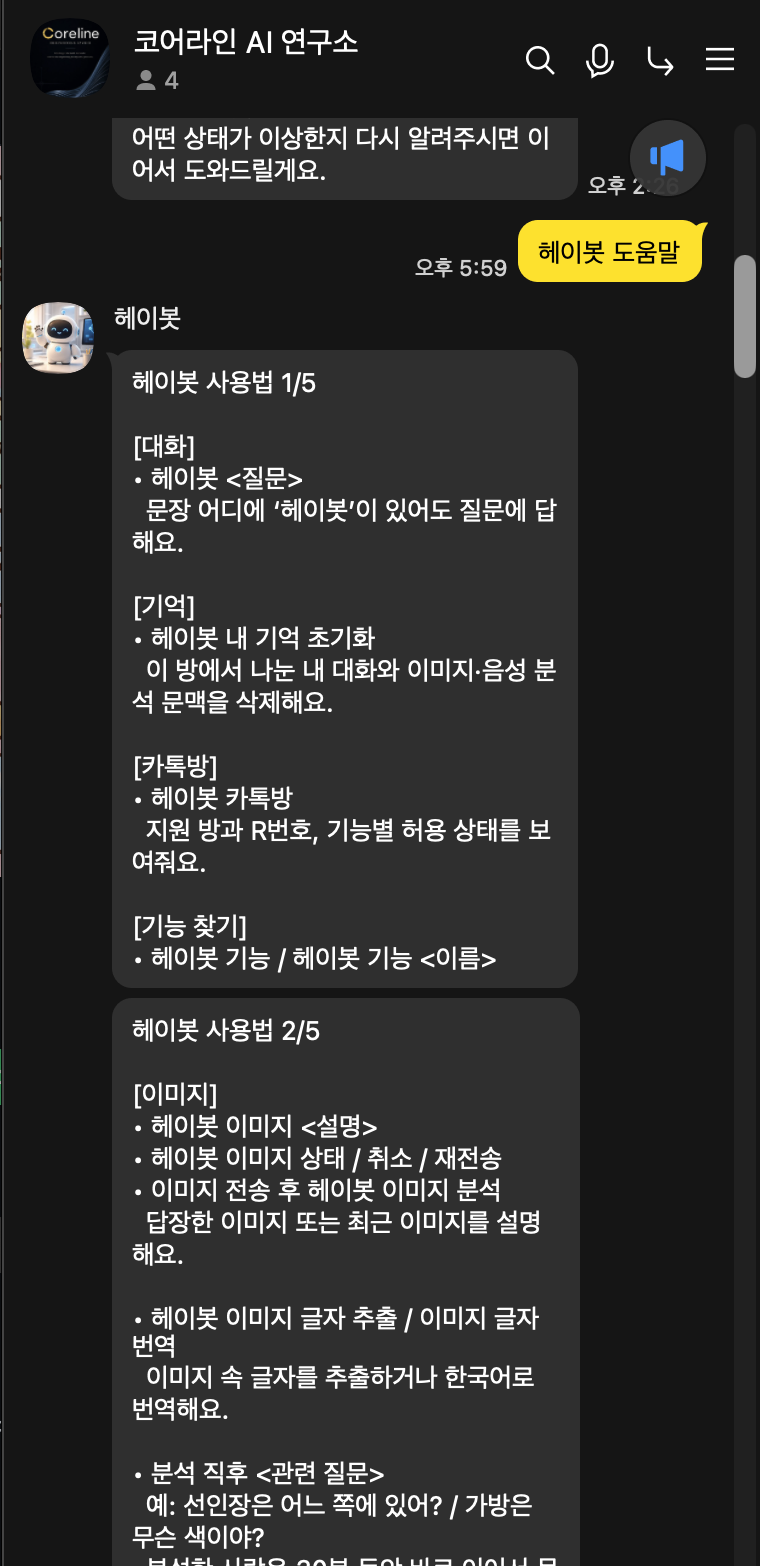
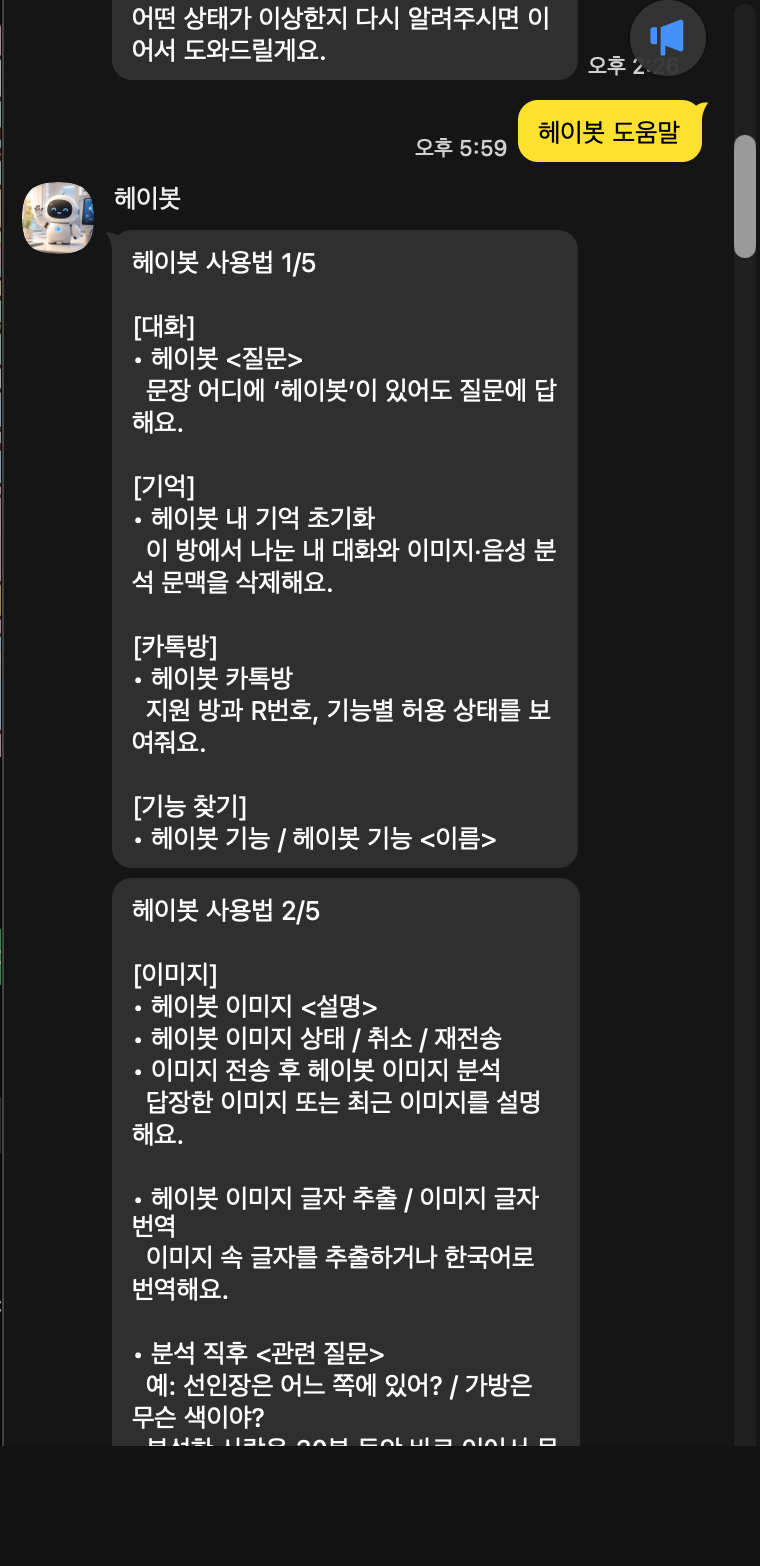
docs: anonymize KakaoTalk demo screenshots

Changed region(s): [[0.0303, 0.0, 0.9684, 1.0], [0.9684, 0.0613, 0.9987, 0.2452]]

diff --git a/README.md b/README.md
@@ -213,9 +213,9 @@ flowchart LR
 
 <table>
   <tr>
-    <td width="33.33%" align="center"><img src="assets/heybot-kakaotalk-image-analysis.png" width="230" alt="코어라인 AI 연구소 카카오톡방의 헤이봇 이미지 분석 요청과 결과" /></td>
-    <td width="33.33%" align="center"><img src="assets/heybot-kakaotalk-help.png" width="230" alt="코어라인 AI 연구소 카카오톡방에 표시된 헤이봇 도움말" /></td>
-    <td width="33.33%" align="center"><img src="assets/heybot-kakaotalk-audio-summary.png" width="230" alt="코어라인 AI 연구소 카카오톡방의 헤이봇 음성 요약 결과" /></td>
+    <td width="33.33%" align="center"><img src="assets/heybot-kakaotalk-image-analysis.png" width="230" alt="헤이봇 이미지 분석 요청과 결과가 표시된 카카오톡 데모 화면" /></td>
+    <td width="33.33%" align="center"><img src="assets/heybot-kakaotalk-help.png" width="230" alt="헤이봇 도움말이 표시된 카카오톡 데모 화면" /></td>
+    <td width="33.33%" align="center"><img src="assets/heybot-kakaotalk-audio-summary.png" width="230" alt="헤이봇 음성 요약 결과가 표시된 카카오톡 데모 화면" /></td>
   </tr>
   <tr>
     <td align="center"><sub>🖼 이미지 분석</sub></td>
@@ -225,7 +225,7 @@ flowchart LR
 </table>
 
 <p align="center">
-  <sub>첨부된 3개 카카오톡 화면을 모두 <strong>760 × 1566px</strong>로 통일해 구성했습니다.</sub>
+  <sub>개인정보 보호를 위해 상단 방 헤더는 제거했으며, 3개 데모 화면은 모두 <strong>760 × 1566px</strong>로 통일했습니다.</sub>
 </p>
 
 ### 🎬 영상·펜브러쉬·YouTube
